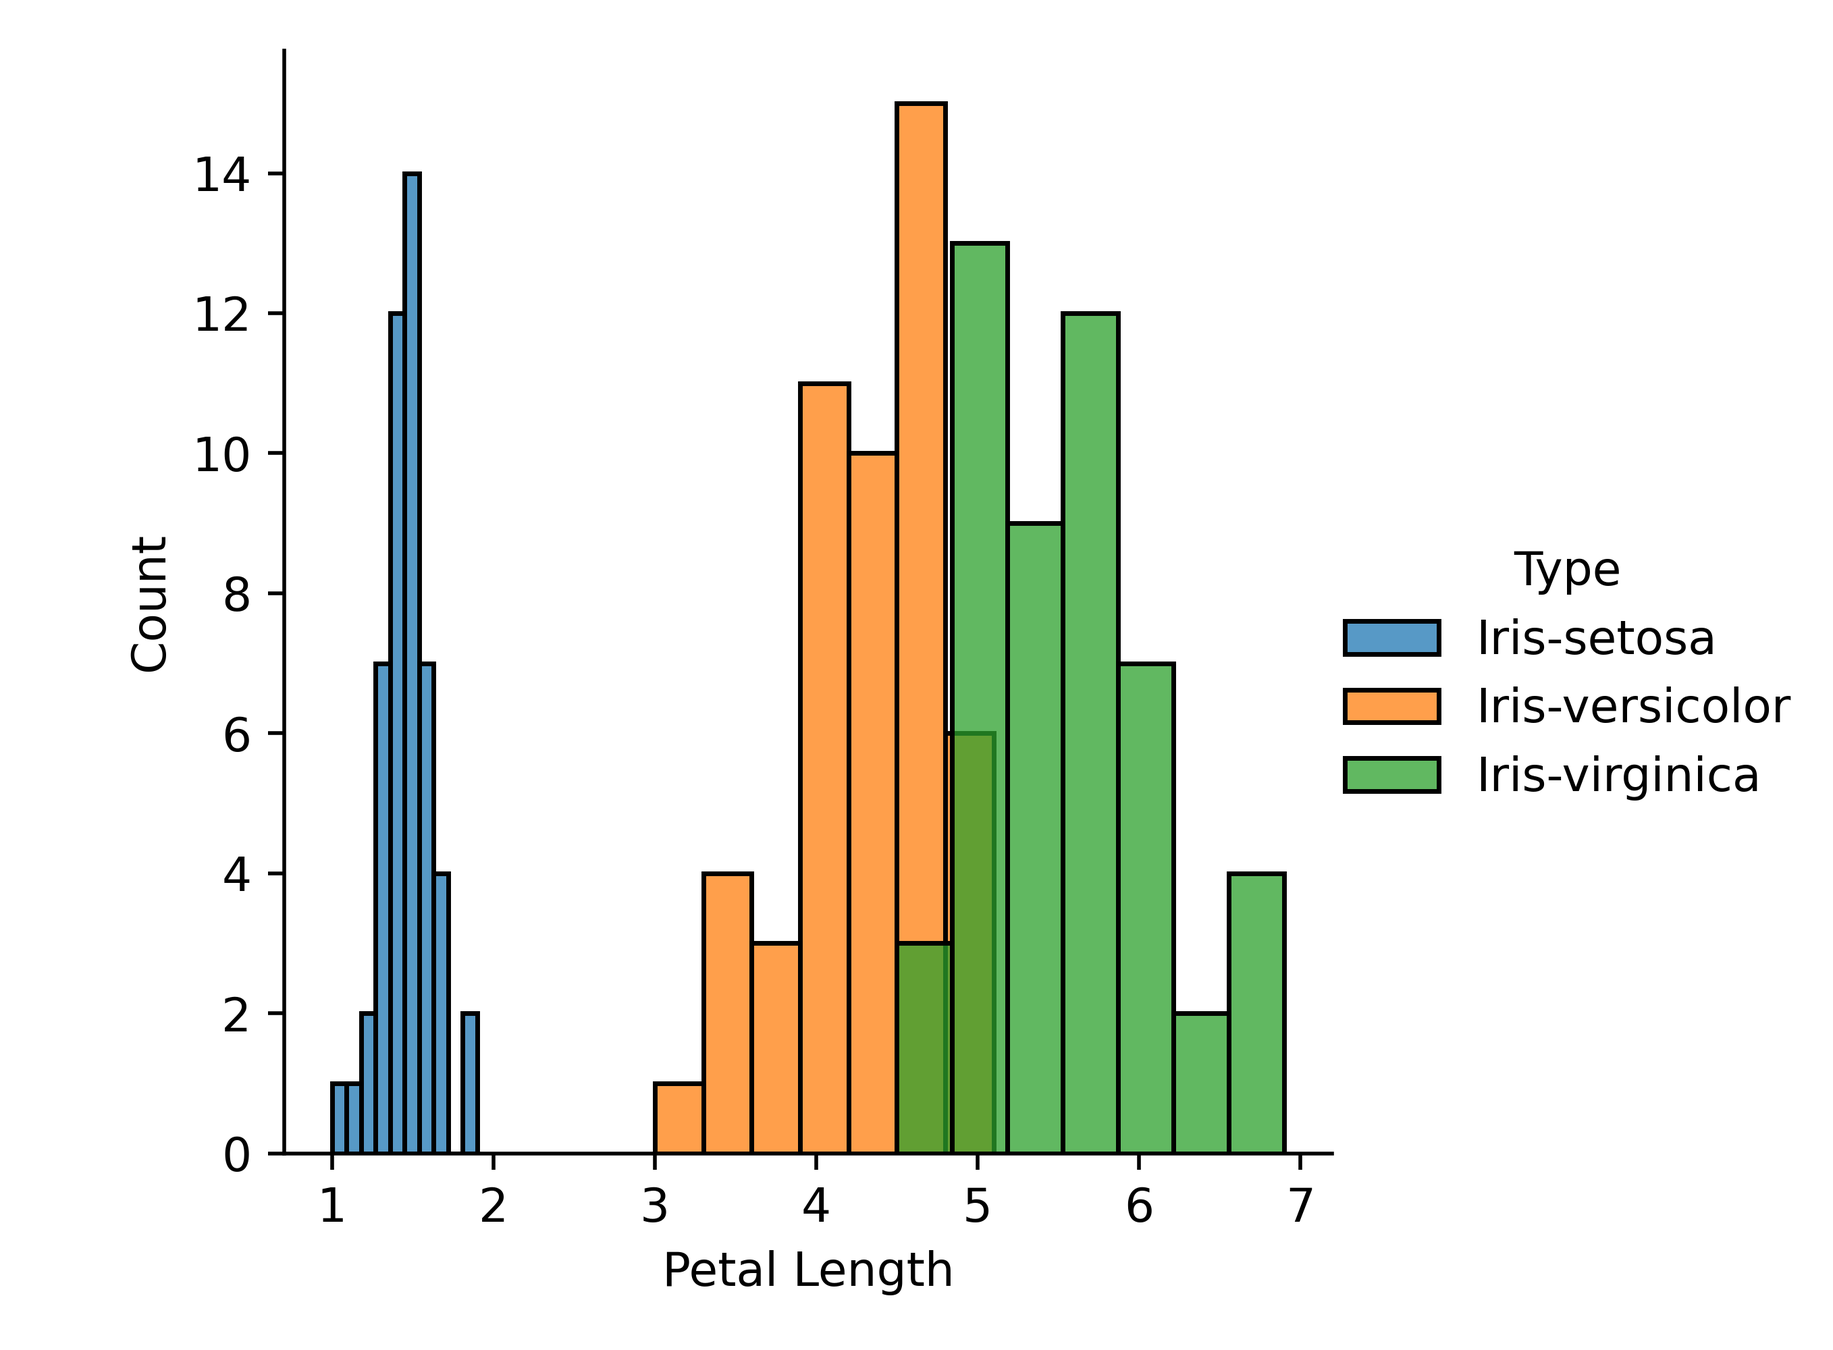
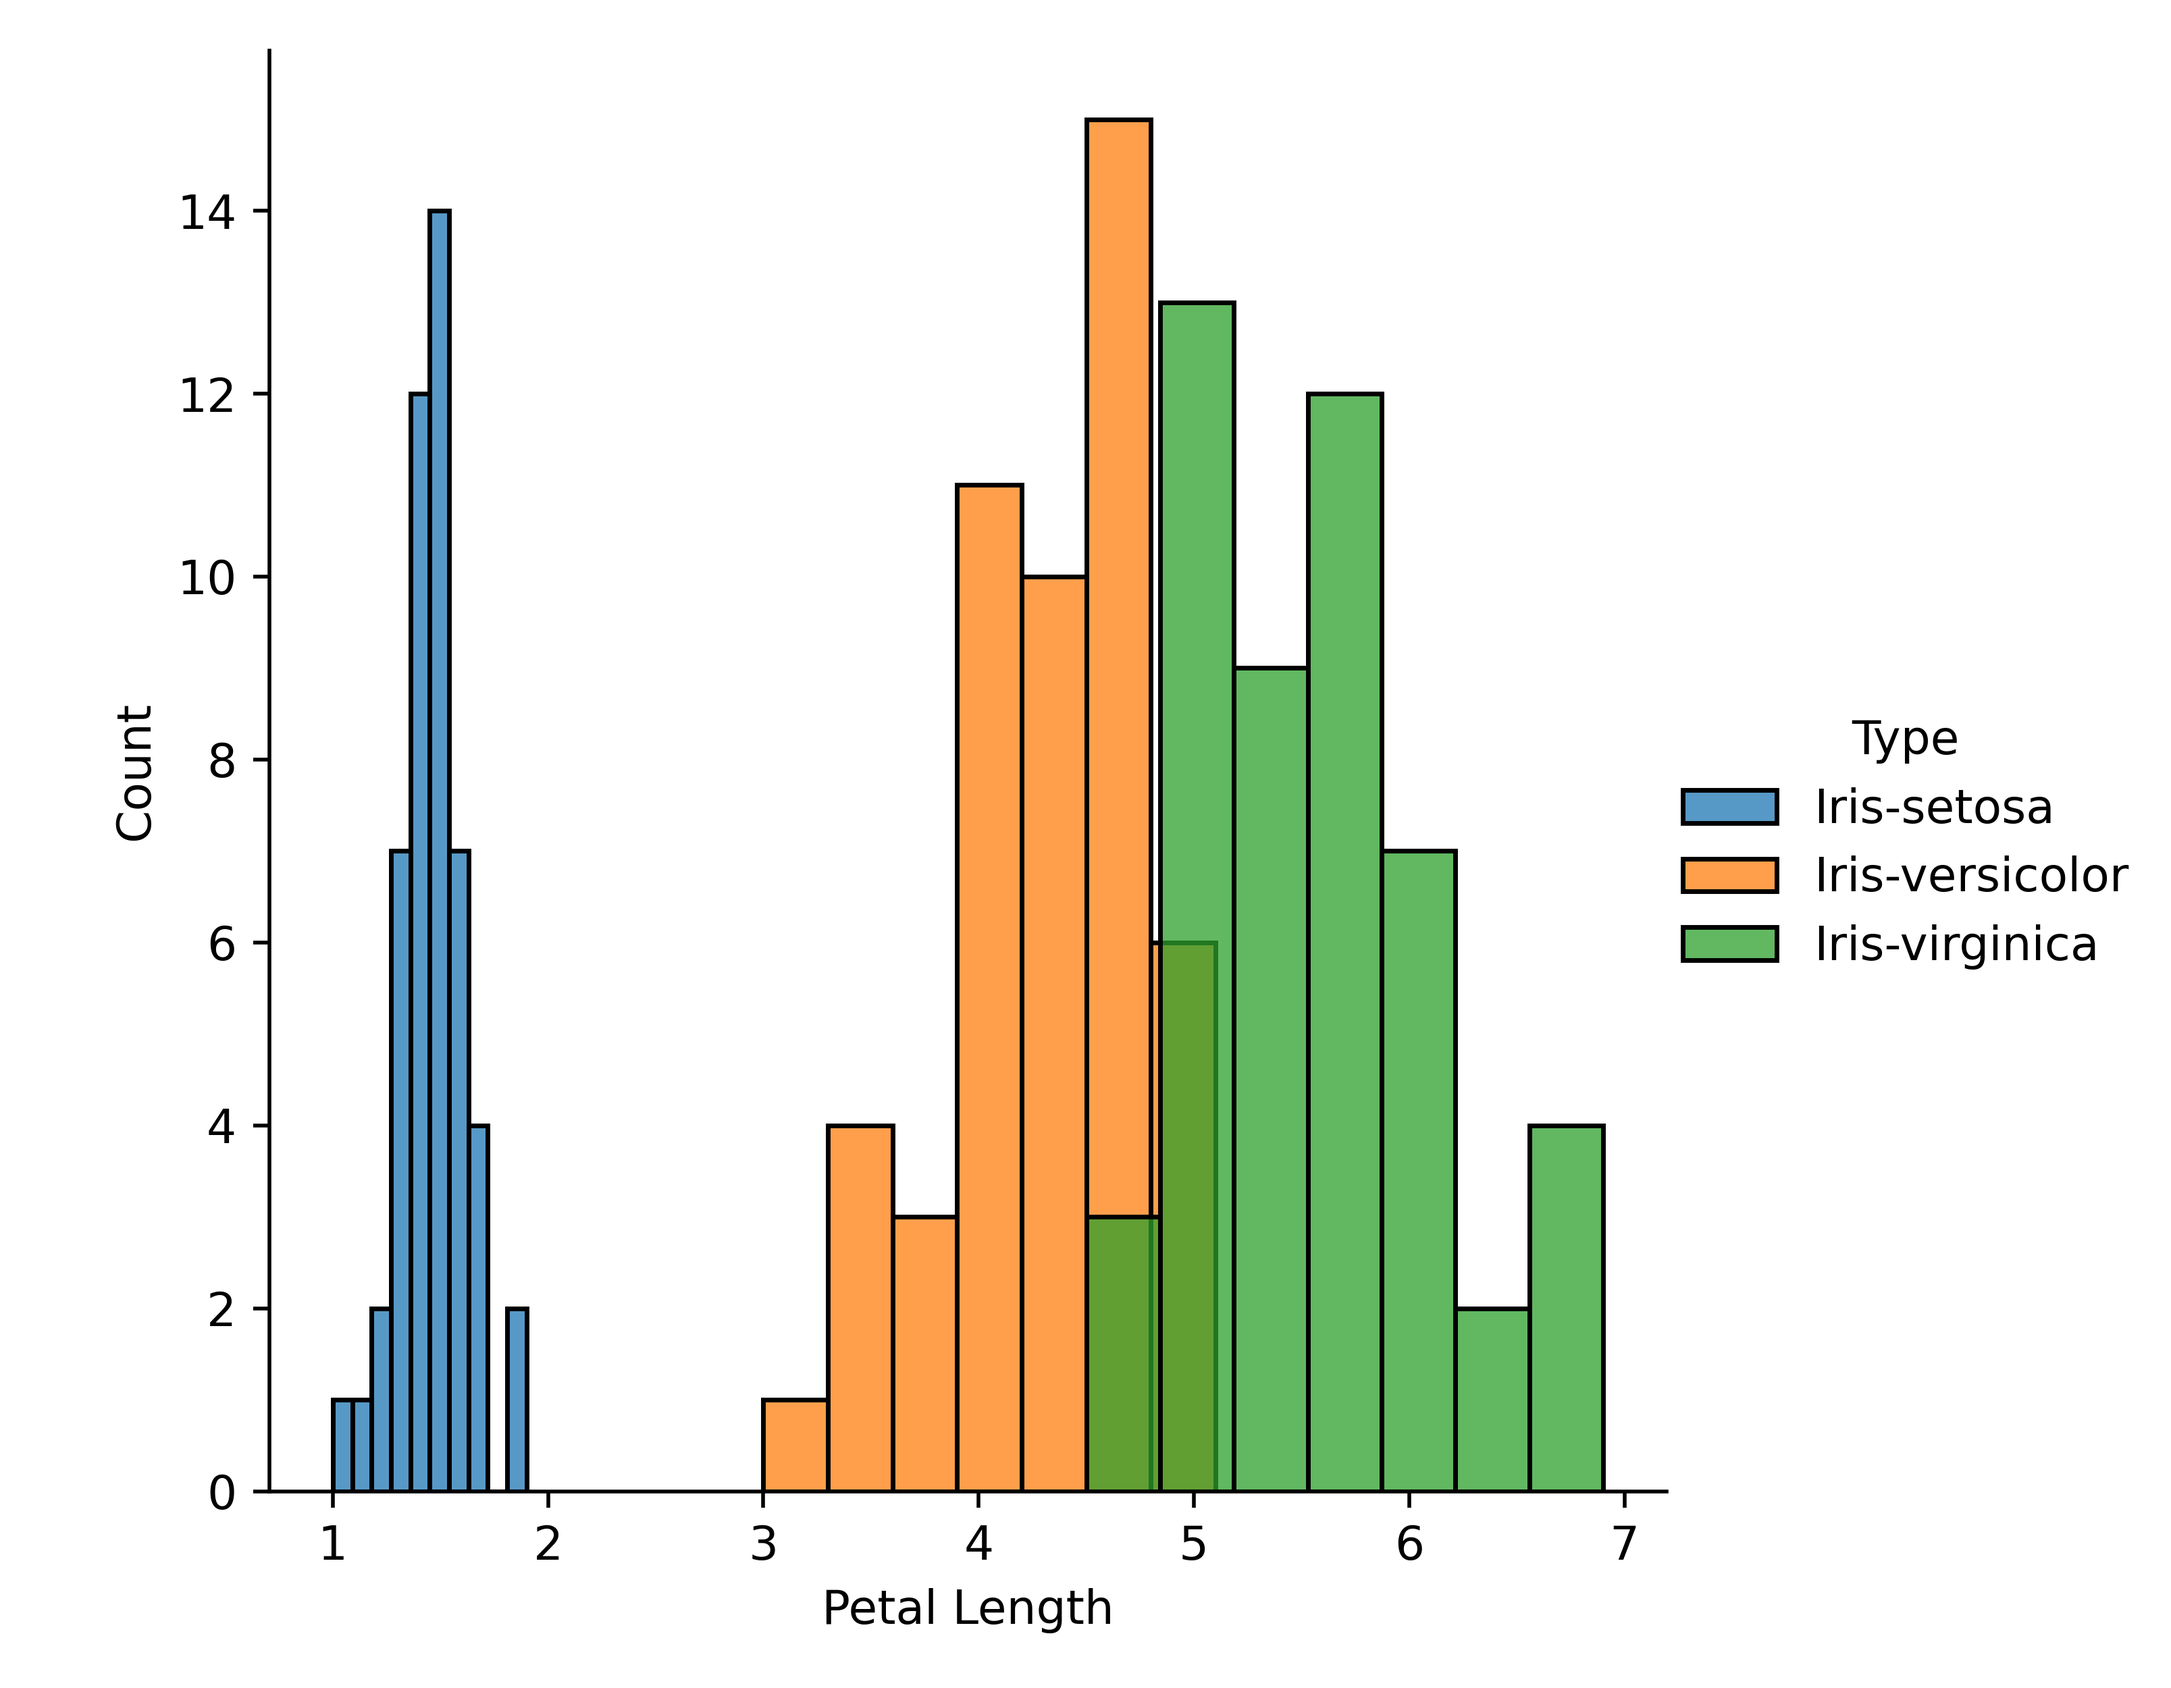
added scatterplots and edited readme

diff --git a/analysis.py b/analysis.py
@@ -40,9 +40,11 @@ with open (filename, "r") as f:
     print(iris.describe(include=[np.number]), file=open("irisSummary.txt", "a"))
     print(' ', file=open("irisSummary.txt", "a")) 
     print('The mean values of the three species are displayed below: ', file=open("irisSummary.txt", "a"))
+    print(" ", file=open("irisSummary.txt", "a"))
     print(iris.groupby("Type").mean(), file=open("irisSummary.txt", "a"))
     print(' ', file=open("irisSummary.txt", "a")) 
     print('The correlation between the values of the three species are displayed below: ', file=open("irisSummary.txt", "a"))
+    print(" ", file=open("irisSummary.txt", "a"))
     print(iris.groupby("Type").corr(), file=open("irisSummary.txt", "a"))
 
 
@@ -58,13 +60,13 @@ iris_versicolor = iris.loc[iris["Type"]=="Iris-versicolor"]
 # the histogram - using the hue parameter will allow us to represent any overlaps in the data. We then add the axes label the same as in matplotlib and make sure we append .add_legend to the 
 # end of the code to show the legend for the different colours/flower type. The 'height' setting modifies the size of the output histogram for viewing.
 
-sns.FacetGrid(iris,hue="Type",height=4).map(sns.histplot,"Petal Length").add_legend()
+sns.FacetGrid(iris,hue="Type",height=5).map(sns.histplot,"Petal Length").add_legend()
 plt.savefig('seanelliottPL.png', dpi = 500)
-sns.FacetGrid(iris,hue="Type",height=4).map(sns.histplot,"Petal Width").add_legend()
+sns.FacetGrid(iris,hue="Type",height=5).map(sns.histplot,"Petal Width").add_legend()
 plt.savefig('seanelliottPW.png', dpi = 500)
-sns.FacetGrid(iris,hue="Type",height=4).map(sns.histplot,"Sepal Length").add_legend()
+sns.FacetGrid(iris,hue="Type",height=5).map(sns.histplot,"Sepal Length").add_legend()
 plt.savefig('seanelliottSL.png', dpi = 500)
-sns.FacetGrid(iris,hue="Type",height=4).map(sns.histplot,"Sepal Width").add_legend()
+sns.FacetGrid(iris,hue="Type",height=5).map(sns.histplot,"Sepal Width").add_legend()
 plt.savefig('seanelliottSW.png', dpi = 500)
 
 # I also wrote below a different output which looks to me more appealing that the simple hsitograms - I create a distplot instead of a histplot above. I prefer the look of the dist plot 
@@ -77,7 +79,7 @@ sns.FacetGrid(iris,hue="Type",height=5).map(sns.distplot,"Sepal Width").add_lege
 plt.show()
 plt.clf()
 
-# At this point I had to change the file name in the program from 'data' to 'iris' as it was confusing the program when it came to plotting the scatter plots (ie. could not have two itterations of 'data')
+# At this point I had to change the file name in the program from 'data' to 'iris' as it was confusing the program when it came to plotting the scatterplots (ie. could not have two itterations of 'data')
 # This is shown below and throughout the program above. I also noticed that in the previous itteration of the program I had mislabeled the 'Type' with capital Letters instead of lower case.
 # This had been throwing off the results of my scatter plot, once rectified the results came out correct. This hadn't been an issue previously as the information for the histograms was 
 # coming from the entire 'iris' dataset instead of individual 'type' subheadings.  
@@ -87,6 +89,38 @@ sns.scatterplot(data = iris_virginica, x= "Sepal Length", y = "Sepal Width", leg
 sns.scatterplot(data = iris_versicolor, x= "Sepal Length", y = "Sepal Width", legend = True)
 plt.legend(labels=["Iris Setosa", "Iris Virginica", "Iris Versicolor"])
 plt.suptitle("Iris Setosa, Virginica and Versicolour Sepal Length/Sepal Width")
+plt.show()
+plt.clf()
+
+sns.scatterplot(data = iris_setosa, x = "Petal Length", y = "Sepal Length", legend = True)
+sns.scatterplot(data = iris_virginica, x = "Petal Length", y = "Sepal Length", legend = True)
+sns.scatterplot(data = iris_versicolor, x = "Petal Length", y = "Sepal Length", legend = True)
+plt.legend(labels=["Iris Setosa", "Iris Virginica", "Iris Versicolor"])
+plt.suptitle("Iris Setosa, Virginica and Versicolour Petal Length/Sepal Length")
+plt.show()
+plt.clf()
+
+sns.scatterplot(data = iris_setosa, x = "Petal Width", y = "Sepal Width", legend = True)
+sns.scatterplot(data = iris_virginica, x = "Petal Width", y = "Sepal Width", legend = True)
+sns.scatterplot(data = iris_versicolor, x = "Petal Width", y = "Sepal Width", legend = True)
+plt.legend(labels=["Iris Setosa", "Iris Virginica", "Iris Versicolor"])
+plt.suptitle("Iris Setosa, Virginica and Versicolour Petal Width/Sepal Width")
+plt.show()
+plt.clf()
+
+sns.scatterplot(data = iris_setosa, x = "Petal Length", y = "Sepal Width", legend = True)
+sns.scatterplot(data = iris_virginica, x = "Petal Length", y = "Sepal Width", legend = True)
+sns.scatterplot(data = iris_versicolor, x = "Petal Length", y = "Sepal Width", legend = True)
+plt.legend(labels=["Iris Setosa", "Iris Virginica", "Iris Versicolor"])
+plt.suptitle("Iris Setosa, Virginica and Versicolour Petal Length/Sepal Width")
+plt.show()
+plt.clf()
+
+sns.scatterplot(data = iris_setosa, x = "Sepal Length", y = "Petal Width", legend = True)
+sns.scatterplot(data = iris_virginica, x = "Sepal Length", y = "Petal Width", legend = True)
+sns.scatterplot(data = iris_versicolor, x = "Sepal Length", y = "Petal Width", legend = True)
+plt.legend(labels=["Iris Setosa", "Iris Virginica", "Iris Versicolor"])
+plt.suptitle("Iris Setosa, Virginica and Versicolour Sepal Length/Petal Width")
 plt.show()
 plt.clf()
 

diff --git a/README.md b/README.md
@@ -31,15 +31,19 @@ came between 5cm and 7cm in length, with the mean measurement coming in at 5.84c
 
 Petal Length and Width provide much starker sets of information. Iris Setosa's petal sizes, both in width and length were dwarfed by the other two species - with petal length of between 1cm and 2cm - with the average being 1.5cm and the average petal width being between 0.1cm and 0.5cm. According to the dataset provided the Iris Versicolor has longer petals starting at 3cm and finishing just over 5cm in length - with the average being 4.00cm. The petal width measurements were between 1.0cm and 1.75cm respectively in the Iris Versicolor, with an average measurement of 1.375cm.
 
-According to the dataset the Iris Virginica has much longer and wider petals than the other two species - the average petal length ranged between 5cm and 7cm with the average being 6cm, while the petal width went from 1.5cm to 2.5cm - with the average being 2cm in width. Compared to the setosa the Virginica also has longer sepal length from 5.5cm to 8cm in length. The Sepal width in the Virginica was also fairly average - spanning from 2.5cm to 3.75cm in width with the average reading being 3.0cm.
+According to the dataset the Iris Virginica has much longer and wider petals than the other two species - the average petal length ranged between 5cm and 7cm with the average being 5.5cm, while the petal width went from 1.5cm to 2.5cm - with the average being 2cm in width. Compared to the Setosa the Virginica also has longer sepal length from 5.5cm to 8cm in length. The Sepal width in the Virginica was also fairly average - spanning from 2.5cm to 3.75cm in width with the average reading being 3.0cm.
+
+<p align = "center">
+    <img src = "https://miro.medium.com/max/700/1*pVEZeY3VDFbHDIAfobT5ow.png" width = "600" title = "hover text">
+
 
 **<p align="center"> Walkthrough of Program**
 
 I found this quite a challenging program to write. It combined many aspects of the course which we had covered, but also required me to learn how to use seaborn - which I found to be an excellent tool for data visualisation and analysis. The program starts by reading in the dataset 'iris.data' and outputs a summary of the raw data to a single text file. I then go on to analyse the data in various ways using the 3 species of Iris Flower; Iris Setosa, Iris Virginica and Iris Versicolor.
 
-Using seaborn I started by creating a histogram plot of the three species of flower, comparing sepal length, sepal width, petal length and petal width across the three species. I then created a distplot which combines the above histogram with a trendline running through it. I found this to be more visually appealing than just the histogram plot on it's own.
+Using seaborn I started by creating a histogram plot of the three species of flower, comparing sepal length, sepal width, petal length and petal width across the three species. I also then allow the program to save the histograms as .png files to the repository for viewing. I then created a distplot which combines the above histogram with a trendline running through it. I found this to be more visually appealing than just the histogram plot on it's own.
 
-I then went on to create a scatterplot of the 3 species which would help me to compare the sepal length/sepal width and the petal length/petal width of the 3 species. I included a legend with each scatterplot and made sure to correctly label the axes to avoid any confusion. I also then allow the program to save the two scatterplots as .png files to the repository for viewing.
+I then went on to create a scatterplot of the 3 species which would help me to compare the sepal length/sepal width and the petal length/petal width of the 3 species. There are 6 itterations/comparison scatterplots of the data which are displayed when the program is run. I included a legend with each scatterplot and made sure to correctly label the axes to avoid any confusion.
 
 I then created a pairplot - this is a combination all of the above data - combining the scatter plots and also distplots to show all of the information in one place. I found this to be particularly appealing to look at and found that it helped give me a much wider view of the information contained within the dataset.
 
@@ -93,3 +97,8 @@ https://dev.to/thalesbruno/subplotting-with-matplotlib-and-seaborn-5ei8
 
 https://stackoverflow.com/questions/54959764/seaborn-factorplot-generates-extra-empty-plots-below-actual-plot 
 
+https://towardsdatascience.com/4-pandas-groupby-tricks-you-should-know-9e5b9870693e 
+
+https://pandas.pydata.org/docs/reference/api/pandas.DataFrame.describe.html 
+
+https://realpython.com/python-csv/ 
